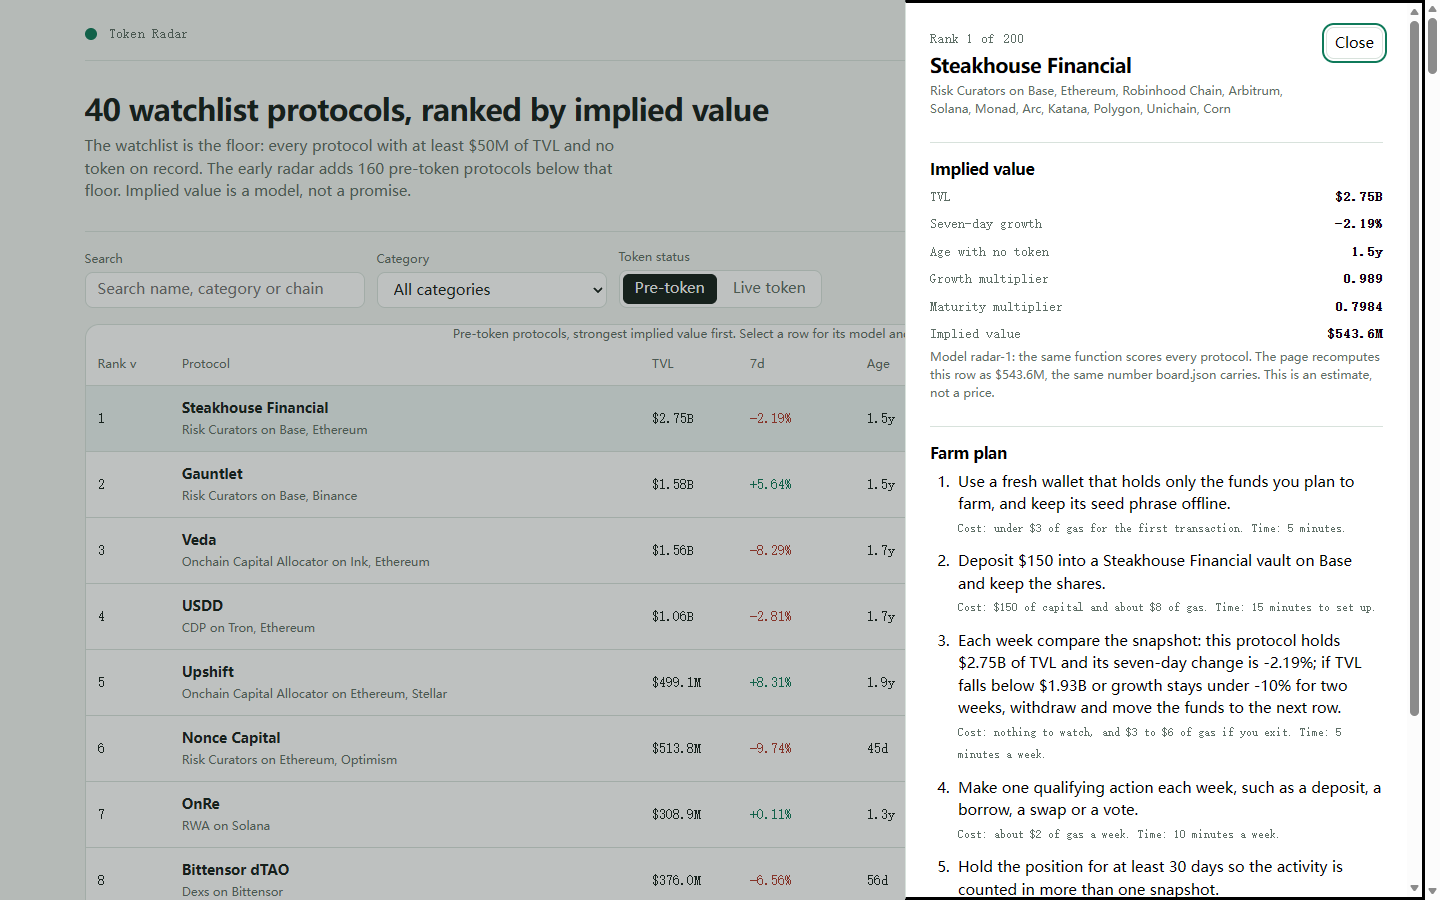
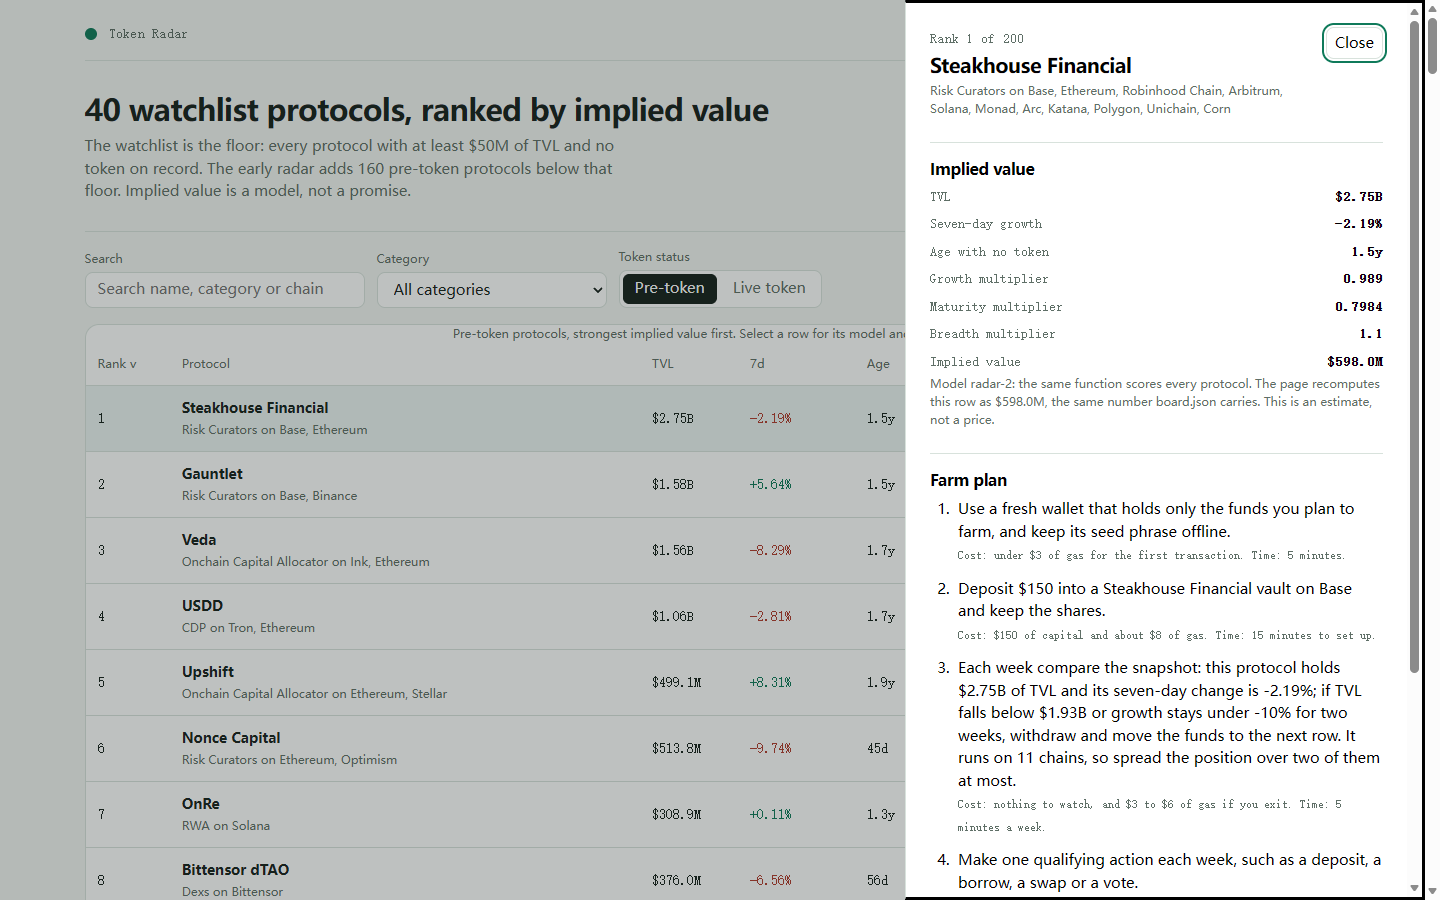
entry: Token Radar

Changed region(s): [[0.625, 0.3422, 0.9688, 0.9956], [0.9688, 0.7467, 1.0, 0.8089]]

diff --git a/lib/model.ts b/lib/model.ts
@@ -12,10 +12,13 @@
 //   growth     = clamp(change_7d, -60, 120) per cent
 //   growthMult = 1 + (growth / 100) x GROWTH_WEIGHT
 //   maturity   = 0.6 + min(age_days, 1095) / 1095 x 0.4   (age_days unknown: 365)
-//   implied    = max(1, round(base x growthMult x maturity))
+//   breadth    = 1 + min(chains - 1, 5) x BREADTH_WEIGHT
+//   implied    = max(1, round(base x growthMult x maturity x breadth))
 //
-// The constants are the house model's, stated in the dashboard and changeable in the model sandbox. No
-// protocol name is ever special-cased: the same function scores every row.
+// Each multiplier answers one question a farmer asks before committing money: how big is the protocol
+// (base), is money arriving or leaving (growth), has it run long enough to be past a test of patience
+// (maturity), and how many chains does one position actually reach (breadth). No protocol name is ever
+// special-cased: the same function scores every row.
 
 /** The snapshot's protocol entry: exactly the ten fields the sealed input carries. */
 export interface SnapshotProtocol {
@@ -50,6 +53,8 @@ export interface ModelConstants {
   maturity_range: number;
   maturity_days: number;
   unknown_age_days: number;
+  breadth_weight: number;
+  breadth_cap: number;
 }
 
 export const MODEL: ModelConstants = {
@@ -61,10 +66,12 @@ export const MODEL: ModelConstants = {
   maturity_range: 0.4,
   maturity_days: 1095,
   unknown_age_days: 365,
+  breadth_weight: 0.02,
+  breadth_cap: 5,
 };
 
 /** The model's version label: the dashboard names it and the rules quote it. */
-export const MODEL_VERSION = 'radar-1';
+export const MODEL_VERSION = 'radar-2';
 
 /** How many pre-token protocols below the watchlist floor the early radar carries, by TVL. */
 export const EARLY_ROWS = 160;
@@ -100,6 +107,7 @@ export interface BoardRow {
     growth_pct: number;
     growth_multiplier: number;
     maturity_multiplier: number;
+    breadth_multiplier: number;
     age_days: number | null;
   };
   farm_steps: string[];
@@ -120,6 +128,7 @@ export interface RadarRow {
   implied_value_usd: number;
   growth_multiplier: number;
   maturity_multiplier: number;
+  breadth_multiplier: number;
 }
 
 /** A live-token protocol: it already trades, so the board shows the market's own value, not a model's. */
@@ -172,17 +181,24 @@ export function ageDays(asOf: string, listedAt: string | null): number | null {
   return Math.max(0, Math.floor((a - b) / DAY_MS));
 }
 
-/** The three multipliers and the implied value one protocol gets under `model`. */
-export function impliedValue(protocol: SnapshotProtocol, asOf: string, model: ModelConstants): { implied: number; growthPct: number; growthMult: number; maturityMult: number; age: number | null } {
+/** The four multipliers and the implied value one protocol gets under `model`. */
+export function impliedValue(
+  protocol: SnapshotProtocol,
+  asOf: string,
+  model: ModelConstants,
+): { implied: number; growthPct: number; growthMult: number; maturityMult: number; breadthMult: number; age: number | null } {
   const age = ageDays(asOf, protocol.listed_at);
   const rawGrowth = finite(protocol.change_7d, 0);
   const growthPct = Math.min(model.growth_cap, Math.max(model.growth_floor, rawGrowth));
   const growthMult = 1 + (growthPct / 100) * model.growth_weight;
   const ageForModel = age ?? model.unknown_age_days;
-  const maturityMult = model.maturity_floor + (Math.min(Math.max(ageForModel, 0), model.maturity_days) / model.maturity_days) * model.maturity_range;
+  const maturityMult =
+    model.maturity_floor +
+    (Math.min(Math.max(ageForModel, 0), model.maturity_days) / model.maturity_days) * model.maturity_range;
+  const breadthMult = 1 + Math.min(Math.max(protocol.chains.length - 1, 0), model.breadth_cap) * model.breadth_weight;
   const base = protocol.tvl_usd * model.base_multiple;
-  const implied = Math.max(1, Math.round(base * growthMult * maturityMult));
-  return { implied, growthPct, growthMult, maturityMult, age };
+  const implied = Math.max(1, Math.round(base * growthMult * maturityMult * breadthMult));
+  return { implied, growthPct, growthMult, maturityMult, breadthMult, age };
 }
 
 /** DefiLlama's version-marker rule: a name ending in a release is a pool of another protocol. */
@@ -201,14 +217,6 @@ export function isRankable(p: SnapshotProtocol): boolean {
 /** The snapshot's protocol by slug. */
 function bySlug(protocols: SnapshotProtocol[]): Map<string, SnapshotProtocol> {
   return new Map(protocols.map((p) => [p.slug, p]));
-}
-
-/** The headline sentence's figures: how many watchlist slugs, how many rows, how many live protocols. */
-export interface BoardSummary {
-  watchlist_size: number;
-  board_size: number;
-  early_size: number;
-  live_size: number;
 }
 
 /** The protocols the board ranks, strongest first, with ranks 1..n. */
@@ -230,8 +238,8 @@ export function buildBoard(snapshot: Snapshot, model: ModelConstants = MODEL): B
   for (const p of early) chosen.set(p.slug, p);
 
   const scored = [...chosen.values()].map((p) => {
-    const { implied, growthPct, growthMult, maturityMult, age } = impliedValue(p, snapshot.as_of, model);
-    return { p, implied, growthPct, growthMult, maturityMult, age };
+    const v = impliedValue(p, snapshot.as_of, model);
+    return { p, ...v };
   });
   scored.sort((a, b) => b.implied - a.implied || (a.p.slug < b.p.slug ? -1 : a.p.slug > b.p.slug ? 1 : 0));
   return scored.map((s, i) => ({
@@ -254,6 +262,7 @@ export function buildBoard(snapshot: Snapshot, model: ModelConstants = MODEL): B
       growth_pct: s.growthPct,
       growth_multiplier: round4(s.growthMult),
       maturity_multiplier: round4(s.maturityMult),
+      breadth_multiplier: round4(s.breadthMult),
       age_days: s.age,
     },
     farm_steps: farmSteps(s.p, s.age).map(stepText),
@@ -308,9 +317,26 @@ function actionFor(p: SnapshotProtocol, capital: number, chain: string): string 
   return `Deposit $${capital} of USDC into ${name} on ${chain} and keep the position open.`;
 }
 
+/** A dollar figure short enough for a step: B for billions, M for millions. */
+function shortUsd(usd: number): string {
+  return usd >= 1e9 ? `$${(usd / 1e9).toFixed(2)}B` : `$${(usd / 1e6).toFixed(1)}M`;
+}
+
 /**
- * A protocol's farm plan: six steps, each an action with a cost and a time. The plan is derived from
- * the protocol's own record (category, chains, TVL, age), never from a hand-written list of names.
+ * The line that says when to leave: the row's own TVL and seven-day growth set the threshold, so a
+ * reader has a number to check rather than a slogan. Snapshot figures only, no name special-cased.
+ */
+function exitTrigger(p: SnapshotProtocol): string {
+  const now = shortUsd(p.tvl_usd);
+  const floor = shortUsd(p.tvl_usd * 0.7);
+  const growth = p.change_7d === null ? 'no seven-day change is recorded this snapshot' : `its seven-day change is ${p.change_7d.toFixed(2)}%`;
+  const chains = p.chains.length > 1 ? ` It runs on ${p.chains.length} chains, so spread the ${'position'} over two of them at most.` : '';
+  return `Each week compare the snapshot: this protocol holds ${now} of TVL and ${growth}; if TVL falls below ${floor} or growth stays under -10% for two weeks, withdraw and move the funds to the next row.${chains}`;
+}
+
+/**
+ * A protocol's farm plan: seven steps, each an action with a cost and a time. The plan is derived from
+ * the protocol's own record (category, chains, TVL, age, growth), never from a hand-written list of names.
  */
 export function farmSteps(p: SnapshotProtocol, age: number | null): FarmStep[] {
   const chain = chainOf(p);
@@ -357,18 +383,6 @@ export function farmSteps(p: SnapshotProtocol, age: number | null): FarmStep[] {
   ];
 }
 
-/**
- * The line that says when to leave: a protocol's own TVL and seven-day growth set the threshold, so a
- * reader has a number to check rather than a slogan. Snapshot figures only, no name special-cased.
- */
-function exitTrigger(p: SnapshotProtocol): string {
-  const short = (usd: number): string => (usd >= 1e9 ? `$${(usd / 1e9).toFixed(2)}B` : `$${(usd / 1e6).toFixed(1)}M`);
-  const now = short(p.tvl_usd);
-  const floor = short(p.tvl_usd * 0.7);
-  const growth = p.change_7d === null ? 'no seven-day change is recorded this snapshot' : `its seven-day change is ${p.change_7d.toFixed(2)}%`;
-  return `Each week compare the snapshot: this protocol holds ${now} of TVL and ${growth}; if TVL falls below ${floor} or growth stays under -10% for two weeks, withdraw and move the funds to the next row.`;
-}
-
 /** The live-token protocols, by market cap, for the dashboard's Live token view. */
 export function liveRows(snapshot: Snapshot): LiveRow[] {
   return snapshot.protocols
@@ -402,6 +416,7 @@ export function radarRow(row: BoardRow): RadarRow {
     implied_value_usd: row.implied_value_usd,
     growth_multiplier: row.model.growth_multiplier,
     maturity_multiplier: row.model.maturity_multiplier,
+    breadth_multiplier: row.model.breadth_multiplier,
   };
 }
 
@@ -469,7 +484,7 @@ export function parseSnapshot(text: string): Snapshot {
   };
 }
 
-/** Why a board is not one the gate will take, or null: coverage, ranks, order, one shared implied value, and farm steps. */
+/** Why a board is not one the gate will take, or null: coverage, ranks, order, one shared value, steps. */
 export function boardIssue(board: BoardRow[], snapshot: Snapshot): string | null {
   const slugs = new Set(board.map((r) => r.slug));
   const missing = snapshot.watchlist.filter((s) => !slugs.has(s));

diff --git a/dashboard/app.js b/dashboard/app.js
@@ -33,7 +33,9 @@
     var growthMult = 1 + (growth / 100) * model.growth_weight;
     var age = row.age_days === null || row.age_days === undefined ? model.unknown_age_days : row.age_days;
     var maturity = model.maturity_floor + (Math.min(Math.max(age, 0), model.maturity_days) / model.maturity_days) * model.maturity_range;
-    return Math.max(1, Math.round(row.tvl_usd * model.base_multiple * growthMult * maturity));
+    var chains = row.chains && row.chains.length ? row.chains.length : 1;
+    var breadth = 1 + Math.min(Math.max(chains - 1, 0), model.breadth_cap) * model.breadth_weight;
+    return Math.max(1, Math.round(row.tvl_usd * model.base_multiple * growthMult * maturity * breadth));
   }
 
   function el(tag, attrs) {
@@ -99,7 +101,8 @@
     var now = short(p.tvl_usd);
     var floor = short(p.tvl_usd * 0.7);
     var growth = p.change_7d === null || p.change_7d === undefined ? 'no seven-day change is recorded this snapshot' : 'its seven-day change is ' + p.change_7d.toFixed(2) + '%';
-    return 'Each week compare the snapshot: this protocol holds ' + now + ' of TVL and ' + growth + '; if TVL falls below ' + floor + ' or growth stays under -10% for two weeks, withdraw and move the funds to the next row.';
+    var chains = p.chains && p.chains.length > 1 ? ' It runs on ' + p.chains.length + ' chains, so spread the position over two of them at most.' : '';
+    return 'Each week compare the snapshot: this protocol holds ' + now + ' of TVL and ' + growth + '; if TVL falls below ' + floor + ' or growth stays under -10% for two weeks, withdraw and move the funds to the next row.' + chains;
   }
   function farmSteps(p) {
     var chain = chainOf(p);
@@ -296,9 +299,9 @@
       el('h2', { text: 'How implied value is computed' }),
       el('p', { class: 'sub', text: 'Every row is scored by one function of the snapshot figures. No protocol name is special-cased, and no row is hand-picked.' }),
       el('div', { class: 'formula' },
-        'implied = round( tvl_usd x ' + m.base_multiple + ' x (1 + clamp(change_7d, ' + m.growth_floor + ', ' + m.growth_cap + ') / 100 x ' + m.growth_weight + ') x (' + m.maturity_floor + ' + min(age_days, ' + m.maturity_days + ') / ' + m.maturity_days + ' x ' + m.maturity_range + ') )'
+        'implied = round( tvl_usd x ' + m.base_multiple + ' x (1 + clamp(change_7d, ' + m.growth_floor + ', ' + m.growth_cap + ') / 100 x ' + m.growth_weight + ') x (' + m.maturity_floor + ' + min(age_days, ' + m.maturity_days + ') / ' + m.maturity_days + ' x ' + m.maturity_range + ') x (1 + min(chains - 1, ' + m.breadth_cap + ') x ' + m.breadth_weight + ') )'
       ),
-      el('p', { class: 'sub', text: 'TVL and seven-day growth come from the snapshot. Age is the time since the protocol was first listed, the best record of how long it has run with no token; an unlisted age uses ' + m.unknown_age_days + ' days. The early radar is every pre-token protocol below the watchlist floor, by TVL, and the live-token protocols are set aside with their market caps shown.' })
+      el('p', { class: 'sub', text: 'TVL and seven-day growth come from the snapshot. Age is the time since the protocol was first listed, the best record of how long it has run with no token; an unlisted age uses ' + m.unknown_age_days + ' days. Breadth counts the chains the same position reaches: the first costs nothing, each further one adds ' + m.breadth_weight + ', up to ' + m.breadth_cap + ' of them. The early radar is every pre-token protocol below the watchlist floor, by TVL, and the live-token protocols are set aside with their market caps shown.' })
     );
   }
 
@@ -328,6 +331,7 @@
         el('div', null, el('span', { text: 'Age with no token' }), el('b', { class: 'num', text: fmtAge(row.age_days) })),
         el('div', null, el('span', { text: 'Growth multiplier' }), el('b', { class: 'num', text: String(row.growth_multiplier) })),
         el('div', null, el('span', { text: 'Maturity multiplier' }), el('b', { class: 'num', text: String(row.maturity_multiplier) })),
+        el('div', null, el('span', { text: 'Breadth multiplier' }), el('b', { class: 'num', text: String(row.breadth_multiplier) })),
         el('div', null, el('span', { text: 'Implied value' }), el('b', { class: 'num', text: fmtUsd(row.implied_value_usd) }))
       ),
       el('p', { class: 'sub', text: 'Model ' + DATA.model_version + ': the same function scores every protocol. The page recomputes this row as ' + fmtUsd(impliedOf(row, DATA.model)) + (impliedOf(row, DATA.model) === row.implied_value_usd ? ', the same number board.json carries.' : ', which differs from the board: the data would be stale.') + ' This is an estimate, not a price.' })
